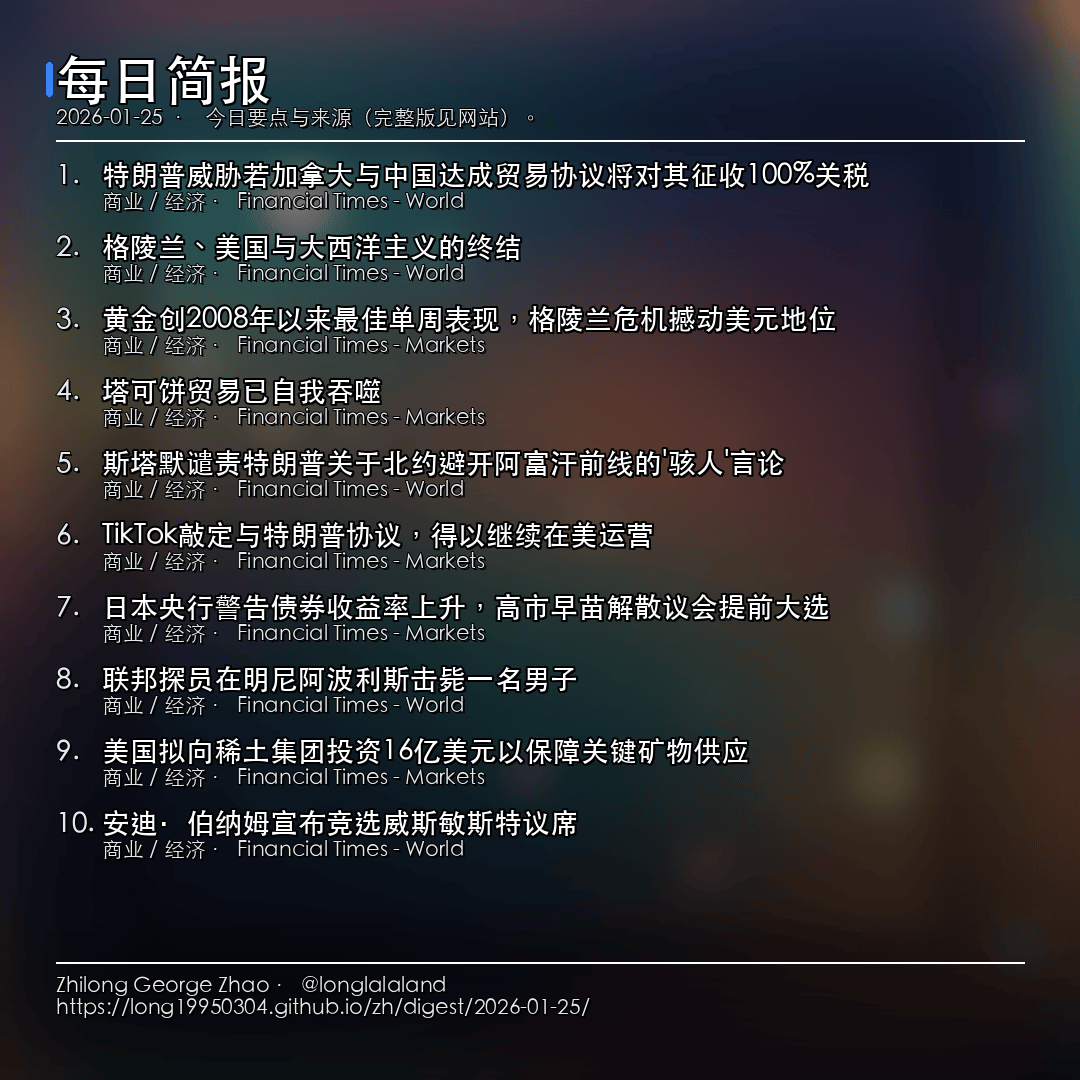
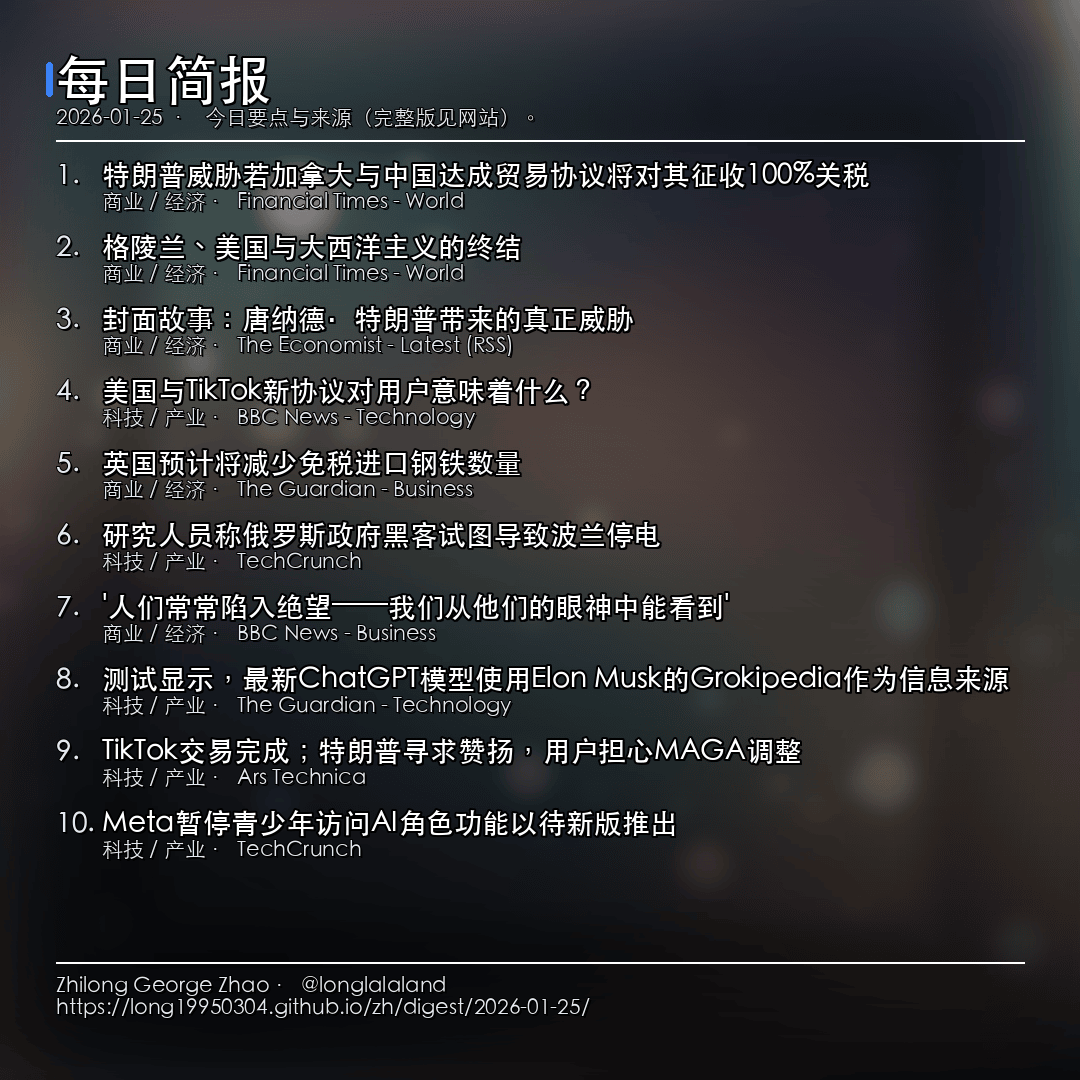
digest: refresh 2026-01-25 cards with diverse sources

diff --git a/_digests/2026-01-25.md b/_digests/2026-01-25.md
@@ -17,29 +17,29 @@ translation_key: digest-2026-01-25
 2. [Greenland, America and the end of Atlanticism](https://www.ft.com/content/5657be61-33f0-424d-b11e-431b3f74d5ce) — Business & economy | Financial Times - World | 2026-01-24 05:00 UTC
    - Behind the crisis caused by Donald Trump’s threats is a much bigger change: the waning of US hegemony and the coming of a multi-polar age
 
-3. [Gold records best week since 2008 as Greenland crisis rattles dollar](https://www.ft.com/content/6d7ab91c-fc2a-4766-8ebd-3108c5446946) — Business & economy | Financial Times - Markets | 2026-01-23 23:32 UTC
-   - Precious metal closes in on $5,000 and silver tops $100 as Trump’s shortlived tariffs threat sparks rush to safe havens
+3. [Cover Story: The true danger posed by Donald Trump](https://www.economist.com/the-world-this-week/2026/01/23/cover-story-the-true-danger-posed-by-donald-trump) — Business & economy | The Economist - Latest (RSS) | 2026-01-23 21:18 UTC
+   - An exclusive look at how we designed our cover
 
-4. [The Taco trade has eaten itself](https://www.ft.com/content/5c1a2e77-6f41-4241-ad3e-66139f6dfac8) — Business & economy | Financial Times - Markets | 2026-01-23 18:00 UTC
-   - Tracking the Donald Trump show has become pointless for investors in the short term
+4. [What does a new US TikTok deal mean for users?](https://www.bbc.com/news/articles/cq5yynydvgzo?at_medium=RSS&at_campaign=rss) — Tech industry | BBC News - Technology | 2026-01-23 18:15 UTC
+   - While TikTok's future in the US has been secured, questions remain about exactly what changes US users will see.
 
-5. [Starmer condemns Trump’s ‘appalling’ claim that Nato avoided Afghan frontline](https://www.ft.com/content/5e93ead5-5fa7-4cce-9c62-802c976fe4c3) — Business & economy | Financial Times - World | 2026-01-24 18:11 UTC
-   - UK prime minister says US president should apologise for comments in latest sign of strain between allies
+5. [UK expected to reduce amount of steel it allows in tariff-free](https://www.theguardian.com/business/2026/jan/24/uk-expected-reduce-steel-allows-tariff-free-glut-china) — Business & economy | The Guardian - Business | 2026-01-24 15:00 UTC
+   - Change being considered amid global glut driven by supplies from China along with a rise in protectionism The UK is expected to reduce the…
 
-6. [TikTok finalises Trump deal to stay online in US](https://www.ft.com/content/b905cb50-3093-4273-b097-4cedc835fadd) — Business & economy | Financial Times - Markets | 2026-01-23 17:17 UTC
-   - Video app sets up American unit to handle data and algorithm security
+6. [Researchers say Russian government hackers were behind attempted Poland power outage](https://techcrunch.com/2026/01/23/researchers-say-russian-government-hackers-were-behind-attempted-poland-power-outage/) — Tech industry | TechCrunch | 2026-01-23 20:17 UTC
+   - Security researchers have attributed the attempted use of destructive "wiper" malware across Poland's energy infrastructure in late Decembe…
 
-7. [BoJ warns over rise in bond yields as Takaichi dissolves parliament for snap poll](https://www.ft.com/content/dd223012-dbec-4895-a32a-e0395d2bfb80) — Business & economy | Financial Times - Markets | 2026-01-23 16:56 UTC
-   - Japan will hold shortest-ever general election campaign period before voting next month
+7. ['People are often in despair - we see it in their eyes'](https://www.bbc.com/news/articles/cz0pnjvggpno?at_medium=RSS&at_campaign=rss) — Business & economy | BBC News - Business | 2026-01-24 12:46 UTC
+   - Charity the Message Trust said the shop was formed in response to "desperate need".
 
-8. [Federal agents shoot man dead in Minneapolis](https://www.ft.com/content/3d855ba7-3e96-4512-b34c-6ff87ade6c12) — Business & economy | Financial Times - World | 2026-01-25 00:16 UTC
-   - Minnesota officials express outrage over second fatal shooting by law enforcement during immigration crackdown
+8. [Latest ChatGPT model uses Elon Musk’s Grokipedia as source, tests reveal](https://www.theguardian.com/technology/2026/jan/24/latest-chatgpt-model-uses-elon-musks-grokipedia-as-source-tests-reveal) — Tech industry | The Guardian - Technology | 2026-01-24 14:00 UTC
+   - Guardian found OpenAI’s platform cited Grokipedia on topics including Iran and Holocaust deniers The latest model of ChatGPT has begun to c…
 
-9. [US to invest $1.6bn into rare earths group in bid to shore up key minerals](https://www.ft.com/content/0a337dc3-5a12-4c82-87b5-f2340378006c) — Business & economy | Financial Times - Markets | 2026-01-24 23:29 UTC
-   - Washington to invest in USA Rare Earth as bank run by Howard Lutnick’s sons advises group on separate fundraising
+9. [TikTok deal is done; Trump wants praise while users fear MAGA tweaks](https://arstechnica.com/tech-policy/2026/01/tiktok-finalizes-trump-deal-that-allows-bytedance-to-maintain-some-control/) — Tech industry | Ars Technica | 2026-01-23 17:29 UTC
+   - “I am so happy”: Trump closes deal that hands TikTok US to his allies.
 
-10. [Andy Burnham announces bid to stand for Westminster seat](https://www.ft.com/content/2085c014-b214-46ef-bdd6-82243b6bd17c) — Business & economy | Financial Times - World | 2026-01-24 18:58 UTC
-   - Greater Manchester mayor seeks to contest Gorton and Denton by-election in move that could set up leadership challenge to Sir Keir Starmer
+10. [Meta pauses teen access to AI characters ahead of new version](https://techcrunch.com/2026/01/23/meta-pauses-teen-access-to-ai-characters-ahead-of-new-version/) — Tech industry | TechCrunch | 2026-01-23 17:00 UTC
+   - Meta today said that it is pausing teens' access to its AI characters globally across all its apps.
 
 ## Full list
 

diff --git a/_digests_zh/2026-01-25.md b/_digests_zh/2026-01-25.md
@@ -17,29 +17,29 @@ translation_key: digest-2026-01-25
 2. [格陵兰、美国与大西洋主义的终结](https://www.ft.com/content/5657be61-33f0-424d-b11e-431b3f74d5ce) — 商业 / 经济 | Financial Times - World | 2026-01-24 05:00 UTC
    - 特朗普威胁引发的危机背后是更重大的变革：美国霸权衰落与多极化时代来临
 
-3. [黄金创2008年以来最佳单周表现，格陵兰危机撼动美元地位](https://www.ft.com/content/6d7ab91c-fc2a-4766-8ebd-3108c5446946) — 商业 / 经济 | Financial Times - Markets | 2026-01-23 23:32 UTC
-   - 贵金属逼近5000美元关口，白银突破100美元，特朗普短暂关税威胁引发避险潮
+3. [封面故事：唐纳德·特朗普带来的真正威胁](https://www.economist.com/the-world-this-week/2026/01/23/cover-story-the-true-danger-posed-by-donald-trump) — 商业 / 经济 | The Economist - Latest (RSS) | 2026-01-23 21:18 UTC
+   - 独家揭秘：我们如何设计封面
 
-4. [塔可饼贸易已自我吞噬](https://www.ft.com/content/5c1a2e77-6f41-4241-ad3e-66139f6dfac8) — 商业 / 经济 | Financial Times - Markets | 2026-01-23 18:00 UTC
-   - 短期来看，追踪特朗普政治秀对投资者已无意义
+4. [美国与TikTok新协议对用户意味着什么？](https://www.bbc.com/news/articles/cq5yynydvgzo?at_medium=RSS&at_campaign=rss) — 科技 / 产业 | BBC News - Technology | 2026-01-23 18:15 UTC
+   - 尽管TikTok在美国的未来已得到保障，但美国用户将看到哪些具体变化仍存疑问。
 
-5. [斯塔默谴责特朗普关于北约避开阿富汗前线的'骇人'言论](https://www.ft.com/content/5e93ead5-5fa7-4cce-9c62-802c976fe4c3) — 商业 / 经济 | Financial Times - World | 2026-01-24 18:11 UTC
-   - 英国首相称美国总统应为言论道歉，盟友关系再现紧张迹象
+5. [英国预计将减少免税进口钢铁数量](https://www.theguardian.com/business/2026/jan/24/uk-expected-reduce-steel-allows-tariff-free-glut-china) — 商业 / 经济 | The Guardian - Business | 2026-01-24 15:00 UTC
+   - 在全球钢铁供应过剩及保护主义抬头背景下，英国正考虑调整政策，预计将减少…
 
-6. [TikTok敲定与特朗普协议，得以继续在美运营](https://www.ft.com/content/b905cb50-3093-4273-b097-4cedc835fadd) — 商业 / 经济 | Financial Times - Markets | 2026-01-23 17:17 UTC
-   - 视频应用成立美国子公司负责数据与算法安全
+6. [研究人员称俄罗斯政府黑客试图导致波兰停电](https://techcrunch.com/2026/01/23/researchers-say-russian-government-hackers-were-behind-attempted-poland-power-outage/) — 科技 / 产业 | TechCrunch | 2026-01-23 20:17 UTC
+   - 安全研究人员将12月下旬波兰能源基础设施中试图使用破坏性'擦除器'恶意软件的行为归因于……
 
-7. [日本央行警告债券收益率上升，高市早苗解散议会提前大选](https://www.ft.com/content/dd223012-dbec-4895-a32a-e0395d2bfb80) — 商业 / 经济 | Financial Times - Markets | 2026-01-23 16:56 UTC
-   - 日本将迎来史上最短大选竞选期，下月进行投票
+7. ['人们常常陷入绝望——我们从他们的眼神中能看到'](https://www.bbc.com/news/articles/cz0pnjvggpno?at_medium=RSS&at_campaign=rss) — 商业 / 经济 | BBC News - Business | 2026-01-24 12:46 UTC
+   - 慈善机构The Message Trust表示，该商店是为响应'极度需求'而成立的。
 
-8. [联邦探员在明尼阿波利斯击毙一名男子](https://www.ft.com/content/3d855ba7-3e96-4512-b34c-6ff87ade6c12) — 商业 / 经济 | Financial Times - World | 2026-01-25 00:16 UTC
-   - 明尼苏达官员对移民执法期间发生的第二起致命枪击表示愤慨
+8. [测试显示，最新ChatGPT模型使用Elon Musk的Grokipedia作为信息来源](https://www.theguardian.com/technology/2026/jan/24/latest-chatgpt-model-uses-elon-musks-grokipedia-as-source-tests-reveal) — 科技 / 产业 | The Guardian - Technology | 2026-01-24 14:00 UTC
+   - 《卫报》发现OpenAI平台在包括伊朗和大屠杀否认者等话题上引用了Grokipedia，最新ChatGPT模型已开始…
 
-9. [美国拟向稀土集团投资16亿美元以保障关键矿物供应](https://www.ft.com/content/0a337dc3-5a12-4c82-87b5-f2340378006c) — 商业 / 经济 | Financial Times - Markets | 2026-01-24 23:29 UTC
-   - 华盛顿将投资USA稀土公司，霍华德·卢特尼克之子执掌的银行为其提供融资咨询
+9. [TikTok交易完成；特朗普寻求赞扬，用户担心MAGA调整](https://arstechnica.com/tech-policy/2026/01/tiktok-finalizes-trump-deal-that-allows-bytedance-to-maintain-some-control/) — 科技 / 产业 | Ars Technica | 2026-01-23 17:29 UTC
+   - “我非常高兴”：特朗普达成交易，将TikTok美国业务交给盟友。
 
-10. [安迪·伯纳姆宣布竞选威斯敏斯特议席](https://www.ft.com/content/2085c014-b214-46ef-bdd6-82243b6bd17c) — 商业 / 经济 | Financial Times - World | 2026-01-24 18:58 UTC
-   - 大曼彻斯特市长拟参加戈顿与登顿补选，或对基尔·斯塔默发起领导权挑战
+10. [Meta暂停青少年访问AI角色功能以待新版推出](https://techcrunch.com/2026/01/23/meta-pauses-teen-access-to-ai-characters-ahead-of-new-version/) — 科技 / 产业 | TechCrunch | 2026-01-23 17:00 UTC
+   - Meta今日宣布在全球范围内暂停青少年用户使用其所有应用中的AI角色功能。
 
 ## 全部列表
 
